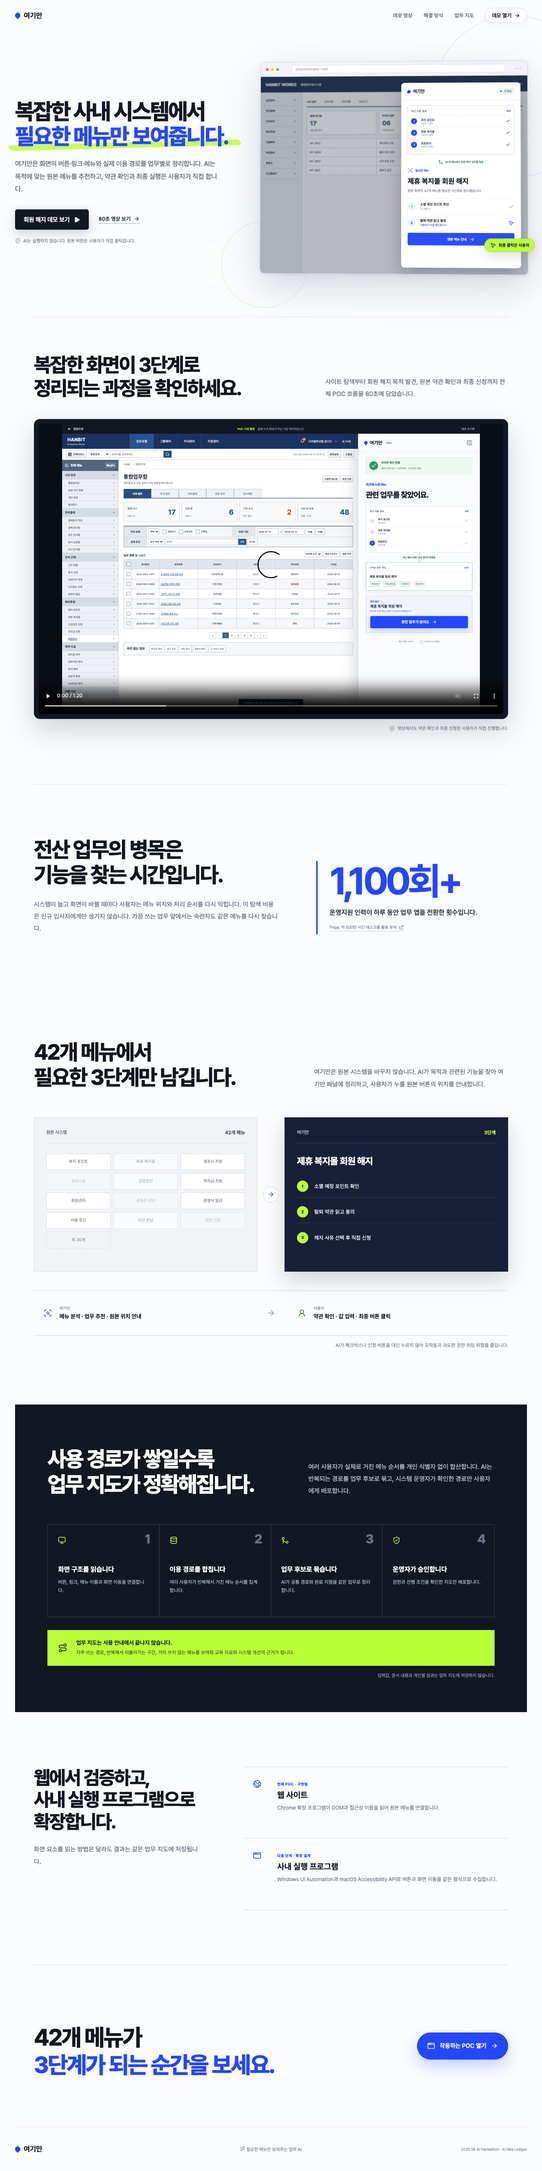
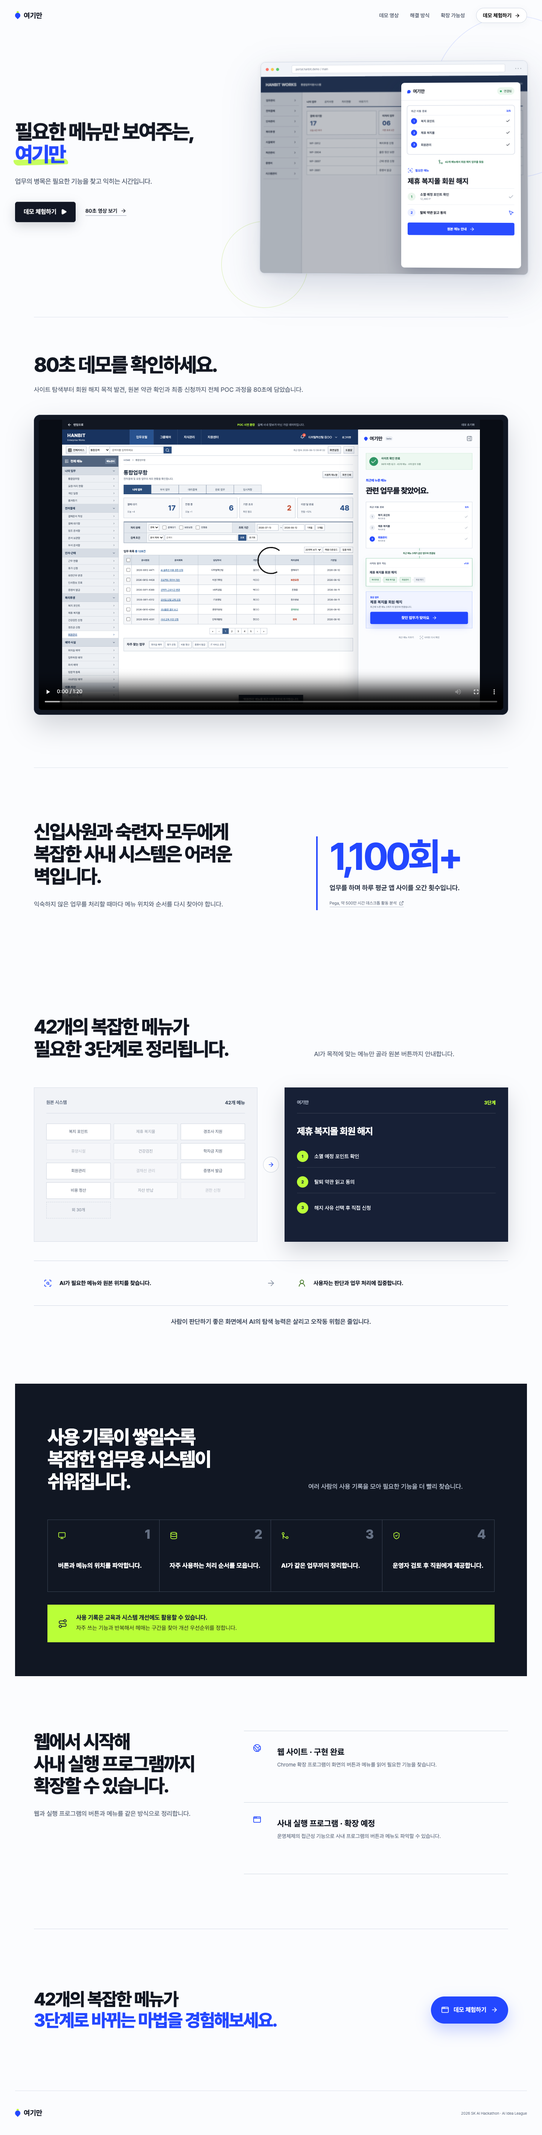
Refine landing copy and line breaks

diff --git a/src/Landing.tsx b/src/Landing.tsx
@@ -61,9 +61,9 @@ export function Landing({ onDemo }: LandingProps) {
         <div className="nav-links">
           <a href="#demo-video">데모 영상</a>
           <a href="#solution">해결 방식</a>
-          <a href="#learning">업무 지도</a>
+          <a href="#learning">확장 가능성</a>
           <button className="nav-demo" onClick={onDemo}>
-            데모 열기 <ArrowRight size={15} />
+            데모 체험하기 <ArrowRight size={15} />
           </button>
         </div>
       </nav>
@@ -71,24 +71,20 @@ export function Landing({ onDemo }: LandingProps) {
       <section className="hero-section">
         <div className="hero-copy hero-reveal">
           <h1>
-            복잡한 사내 시스템에서
-            <br /><span>필요한 메뉴만<br className="mobile-break" /> 보여줍니다.</span>
+            필요한 메뉴만 보여주는,
+            <br /><span>여기만</span>
           </h1>
           <p className="hero-description">
-            여기만은 화면의 버튼·링크·메뉴와 실제 이용 경로를 업무별로 정리합니다. AI는 목적에 맞는
-            원본 메뉴를 추천하고, 약관 확인과 최종 실행은 사용자가 직접 합니다.
+            업무의 병목은 필요한 기능을 찾고 익히는 시간입니다.
           </p>
           <div className="hero-actions">
             <button className="primary-cta" onClick={onDemo}>
-              회원 해지 데모 보기 <Play size={17} fill="currentColor" />
+              데모 체험하기 <Play size={17} fill="currentColor" />
             </button>
             <a className="text-cta" href="#demo-video">
               80초 영상 보기 <ArrowRight size={16} />
             </a>
           </div>
-          <p className="security-caption">
-            <ShieldCheck size={15} /> AI는 실행하지 않습니다. 원본 버튼은 사용자가 직접 클릭합니다.
-          </p>
         </div>
 
         <div className="hero-product hero-reveal hero-reveal-late" aria-label="여기만 제품 미리보기">
@@ -138,31 +134,27 @@ export function Landing({ onDemo }: LandingProps) {
                 <div className="preview-trace">
                   <div className="preview-trace-head"><small>최근 이동 경로</small><b>3/5</b></div>
                   {['복지 포인트', '제휴 복지몰', '회원관리'].map((item, index) => (
-                    <p key={item}><i>{index + 1}</i><span>{item}<small>사용자가 클릭</small></span><Check size={12} /></p>
+                    <p key={item}><i>{index + 1}</i><span>{item}</span><Check size={12} /></p>
                   ))}
                 </div>
                 <div className="preview-intersection"><GitMerge size={13} /> 42개 메뉴에서 회원 해지 업무를 찾음</div>
                 <div className="preview-result">
                   <div className="result-label"><ScanSearch size={14} /> 필요한 메뉴</div>
                   <h3>제휴 복지몰 회원 해지</h3>
-                  <p>원본 화면의 42개 메뉴를 필요한 3단계로 정리했습니다.</p>
                   <div className="mini-step"><span>1</span><p><b>소멸 예정 포인트 확인</b><small>12,480 P</small></p><Check size={15} /></div>
-                  <div className="mini-step active"><span>2</span><p><b>탈퇴 약관 읽고 동의</b><small>사용자가 직접 확인합니다</small></p><MousePointer2 size={15} /></div>
+                  <div className="mini-step active"><span>2</span><p><b>탈퇴 약관 읽고 동의</b></p><MousePointer2 size={15} /></div>
                   <button className="preview-action">원본 메뉴 안내 <ArrowRight size={14} /></button>
                 </div>
               </div>
             </div>
           </div>
-          <div className="human-badge"><MousePointer2 size={16} /> 최종 클릭은 사용자</div>
         </div>
       </section>
 
       <section className="demo-video-section" id="demo-video">
         <div className="demo-video-heading">
-          <h2>복잡한 화면이 3단계로<br />정리되는 과정을 확인하세요.</h2>
-          <p>
-            사이트 탐색부터 회원 해지 목적 발견, 원본 약관 확인과 최종 신청까지 전체 POC 흐름을 80초에 담았습니다.
-          </p>
+          <h2>80초 데모를 확인하세요.</h2>
+          <p>사이트 탐색부터 회원 해지 목적 발견, 원본 약관 확인과 최종 신청까지 전체 POC 과정을 80초에 담았습니다.</p>
         </div>
         <div className="demo-video-frame">
           <video controls playsInline preload="metadata" poster={demoPoster} width="1440" height="900" aria-label="여기만 회원 해지 POC 데모 영상">
@@ -170,20 +162,16 @@ export function Landing({ onDemo }: LandingProps) {
             브라우저가 MP4 영상 재생을 지원하지 않습니다.
           </video>
         </div>
-        <p className="demo-video-note"><ShieldCheck size={15} /> 영상에서도 약관 확인과 최종 신청은 사용자가 직접 진행합니다.</p>
       </section>
 
       <section className="friction-section" id="problem">
         <div className="friction-copy">
-          <h2>전산 업무의 병목은<br />기능을 찾는 시간입니다.</h2>
-          <p>
-            시스템이 늘고 화면이 바뀔 때마다 사용자는 메뉴 위치와 처리 순서를 다시 익힙니다.
-            이 탐색 비용은 신규 입사자에게만 생기지 않습니다. 가끔 쓰는 업무 앞에서는 숙련자도 같은 메뉴를 다시 찾습니다.
-          </p>
+          <h2>신입사원과 숙련자 모두에게<br />복잡한 사내 시스템은 어려운 벽입니다.</h2>
+          <p>익숙하지 않은 업무를 처리할 때마다 메뉴 위치와 순서를 다시 찾아야 합니다.</p>
         </div>
         <div className="friction-proof">
           <strong>1,100회+</strong>
-          <p>운영지원 인력이 하루 동안 업무 앱을 전환한 횟수입니다.</p>
+          <p>업무를 하며 하루 평균 앱 사이를 오간 횟수입니다.</p>
           <a href="https://www.pega.com/about/news/press-releases/research-reveals-employees-switch-apps-over-1100-times-day" target="_blank" rel="noreferrer">
             Pega, 약 500만 시간 데스크톱 활동 분석 <ExternalLink size={13} />
           </a>
@@ -192,11 +180,8 @@ export function Landing({ onDemo }: LandingProps) {
 
       <section className="focus-section" id="solution">
         <div className="focus-heading">
-          <h2>42개 메뉴에서<br />필요한 3단계만 남깁니다.</h2>
-          <p>
-            여기만은 원본 시스템을 바꾸지 않습니다. AI가 목적과 관련된 기능을 찾아 여기만 패널에 정리하고,
-            사용자가 누를 원본 버튼의 위치를 안내합니다.
-          </p>
+          <h2>42개의 복잡한 메뉴가<br />필요한 3단계로 정리됩니다.</h2>
+          <p>AI가 목적에 맞는 메뉴만 골라 원본 버튼까지 안내합니다.</p>
         </div>
 
         <div className="focus-compare" aria-label="원본 시스템과 여기만 화면 비교">
@@ -220,65 +205,60 @@ export function Landing({ onDemo }: LandingProps) {
         </div>
 
         <div className="control-policy">
-          <div><ScanSearch size={22} /><p><small>여기만</small><b>메뉴 분석 · 업무 추천 · 원본 위치 안내</b></p></div>
+          <div><ScanSearch size={22} /><p><b>AI가 필요한 메뉴와 원본 위치를 찾습니다.</b></p></div>
           <ArrowRight className="policy-arrow" size={24} />
-          <div><UserRound size={22} /><p><small>사용자</small><b>약관 확인 · 값 입력 · 최종 버튼 클릭</b></p></div>
+          <div><UserRound size={22} /><p><b>사용자는 판단과 업무 처리에 집중합니다.</b></p></div>
         </div>
-        <p className="control-note">AI가 체크박스나 신청 버튼을 대신 누르지 않아 오작동과 과도한 권한 위임 위험을 줄입니다.</p>
+        <p className="control-note">사람이 판단하기 좋은 화면에서 AI의 탐색 능력은 살리고 오작동 위험은 줄입니다.</p>
       </section>
 
       <section className="learning-section" id="learning">
         <div className="learning-heading">
-          <h2>사용 경로가 쌓일수록<br />업무 지도가 정확해집니다.</h2>
-          <p>
-            여러 사용자가 실제로 거친 메뉴 순서를 개인 식별자 없이 합산합니다. AI는 반복되는 경로를 업무 후보로 묶고,
-            시스템 운영자가 확인한 경로만 사용자에게 배포합니다.
-          </p>
+          <h2>사용 기록이 쌓일수록<br />복잡한 업무용 시스템이 쉬워집니다.</h2>
+          <p>여러 사람의 사용 기록을 모아 필요한 기능을 더 빨리 찾습니다.</p>
         </div>
 
-        <div className="learning-flow" aria-label="업무 지도가 만들어지는 과정">
-          <article><span>1</span><Monitor size={21} /><h3>화면 구조를 읽습니다</h3><p>버튼, 링크, 메뉴 이름과 화면 이동을 연결합니다.</p></article>
-          <article><span>2</span><Database size={21} /><h3>이용 경로를 합칩니다</h3><p>여러 사용자가 반복해서 거친 메뉴 순서를 집계합니다.</p></article>
-          <article><span>3</span><GitMerge size={21} /><h3>업무 후보로 묶습니다</h3><p>AI가 공통 경로와 완료 지점을 같은 업무로 정리합니다.</p></article>
-          <article><span>4</span><ShieldCheck size={21} /><h3>운영자가 승인합니다</h3><p>권한과 선행 조건을 확인한 지도만 배포합니다.</p></article>
+        <div className="learning-flow" aria-label="복잡한 업무용 시스템을 쉽게 만드는 과정">
+          <article><span>1</span><Monitor size={21} /><h3>버튼과 메뉴의 위치를 파악합니다.</h3></article>
+          <article><span>2</span><Database size={21} /><h3>자주 사용하는 처리 순서를 모읍니다.</h3></article>
+          <article><span>3</span><GitMerge size={21} /><h3>AI가 같은 업무끼리 정리합니다.</h3></article>
+          <article><span>4</span><ShieldCheck size={21} /><h3>운영자 검토 후 직원에게 제공합니다.</h3></article>
         </div>
 
         <div className="learning-insight">
           <Route size={25} />
-          <p><b>업무 지도는 사용 안내에서 끝나지 않습니다.</b><span>자주 쓰는 경로, 반복해서 되돌아가는 구간, 거의 쓰지 않는 메뉴를 보여줘 교육 자료와 시스템 개선의 근거가 됩니다.</span></p>
+          <p><b>사용 기록은 교육과 시스템 개선에도 활용할 수 있습니다.</b><span>자주 쓰는 기능과 반복해서 헤매는 구간을 찾아 개선 우선순위를 정합니다.</span></p>
         </div>
-        <p className="privacy-note">입력값, 문서 내용과 개인별 성과는 업무 지도에 저장하지 않습니다.</p>
       </section>
 
       <section className="platform-section">
         <div className="platform-heading">
-          <h2>웹에서 검증하고,<br />사내 실행 프로그램으로 확장합니다.</h2>
-          <p>화면 요소를 읽는 방법은 달라도 결과는 같은 업무 지도에 저장됩니다.</p>
+          <h2>웹에서 시작해<br />사내 실행 프로그램까지 확장할 수 있습니다.</h2>
+          <p>웹과 실행 프로그램의 버튼과 메뉴를 같은 방식으로 정리합니다.</p>
         </div>
         <div className="platform-list">
           <article>
             <Globe2 size={22} />
-            <div><span>현재 POC · 구현됨</span><h3>웹 사이트</h3><p>Chrome 확장 프로그램이 DOM과 접근성 이름을 읽어 원본 메뉴를 연결합니다.</p></div>
+            <div><h3>웹 사이트 · 구현 완료</h3><p>Chrome 확장 프로그램이 화면의 버튼과 메뉴를 읽어 필요한 기능을 찾습니다.</p></div>
           </article>
           <article>
             <AppWindow size={22} />
-            <div><span>다음 단계 · 확장 설계</span><h3>사내 실행 프로그램</h3><p>Windows UI Automation과 macOS Accessibility API로 버튼과 화면 이동을 같은 형식으로 수집합니다.</p></div>
+            <div><h3>사내 실행 프로그램 · 확장 예정</h3><p>운영체제의 접근성 기능으로 사내 프로그램의 버튼과 메뉴도 파악할 수 있습니다.</p></div>
           </article>
         </div>
       </section>
 
       <section className="final-cta-section">
         <div>
-          <h2>42개 메뉴가<br /><span>3단계가 되는 순간을 보세요.</span></h2>
+          <h2>42개의 복잡한 메뉴가<br /><span>3단계로 바뀌는 마법을 경험해보세요.</span></h2>
         </div>
         <button className="final-cta" onClick={onDemo}>
-          <AppWindow size={21} /> 작동하는 POC 열기 <ArrowRight size={19} />
+          <AppWindow size={21} /> 데모 체험하기 <ArrowRight size={19} />
         </button>
       </section>
 
       <footer>
         <span className="wordmark"><i className="wordmark-dot" /> 여기만</span>
-        <p><Route size={13} /> 필요한 메뉴만 보여주는 업무 AI</p>
         <small>2026 SK AI Hackathon · AI Idea League</small>
       </footer>
     </main>

diff --git a/src/styles.css b/src/styles.css
@@ -23,6 +23,7 @@ button { cursor: pointer; }
 a { color: inherit; text-decoration: none; }
 
 .landing { overflow: hidden; background: #fbfcfe; }
+.landing h1,.landing h2,.landing h3,.landing p { word-break: keep-all; }
 .landing-nav {
   width: min(1360px, calc(100% - 64px)); height: 82px; margin: 0 auto;
   display: flex; align-items: center; justify-content: space-between; position: relative; z-index: 20;
@@ -119,29 +120,31 @@ a { color: inherit; text-decoration: none; }
 .access-mark { position: absolute; right: 8%; top: 12%; display: flex; gap: 10px; color: var(--lime); opacity: .85; }.access-mark svg { width: 11px; fill: currentColor; }
 
 .final-cta-section { min-height: 430px; padding: 90px 0; border-top: 1px solid #d5dce6; display: flex; align-items: center; justify-content: space-between; gap: 60px; }
-.final-cta-section h2 { font-size: clamp(43px, 4.3vw, 68px); margin-top: 28px; }.final-cta-section h2 span { color: var(--blue); }
+.final-cta-section h2 { font-size: clamp(40px, 3.3vw, 50px); margin-top: 0; }.final-cta-section h2 span { color: var(--blue); white-space: nowrap; }
 .final-cta { flex: 0 0 auto; height: 72px; background: var(--blue); color: #fff; border: 0; border-radius: 99px; padding: 0 27px; display: flex; gap: 12px; align-items: center; font-weight: 600; font-size: 16px; box-shadow: 0 18px 40px rgba(35, 71, 255, .25); transition: transform .2s, box-shadow .2s; }
 .final-cta:hover { transform: translateY(-4px); box-shadow: 0 25px 55px rgba(35, 71, 255, .32); }
-footer { min-height: 118px; border-top: 1px solid #dce2eb; width: min(1360px, calc(100% - 64px)); margin: 0 auto; display: grid; grid-template-columns: 1fr auto 1fr; align-items: center; color: #737d8f; font-size: 12px; }
+footer { min-height: 118px; border-top: 1px solid #dce2eb; width: min(1360px, calc(100% - 64px)); margin: 0 auto; display: grid; grid-template-columns: 1fr auto; align-items: center; color: #737d8f; font-size: 12px; }
 footer p { margin: 0; }footer small { justify-self: end; }
 
 /* Landing: problem → solution → work map */
-.hero-copy h1 { font-size: clamp(47px, 4.15vw, 64px); white-space: normal; }
+.hero-copy h1 { font-size: clamp(46px, 3.8vw, 58px); white-space: nowrap; }
 .mobile-break { display: none; }
 .hero-copy h1 span::after { height: 15px; }
+.hero-description { max-width: none; white-space: nowrap; }
 .demo-video-section,.friction-section,.focus-section,.learning-section,.platform-section { width: min(1260px, calc(100% - 64px)); margin: 0 auto; }
 
 .demo-video-section { padding: 95px 0 140px; border-top: 1px solid #dce2eb; }
-.demo-video-heading { display: grid; grid-template-columns: 1fr .72fr; gap: 100px; align-items: end; margin-bottom: 50px; }
+.demo-video-heading { margin-bottom: 50px; }
 .demo-video-heading h2 { margin: 0; font-size: clamp(40px, 3.7vw, 58px); line-height: 1.17; letter-spacing: -.052em; font-weight: 780; }
-.demo-video-heading p { margin: 0; color: #596476; font-size: 17px; line-height: 1.9; }
+.demo-video-heading p { margin: 19px 0 0; color: #596476; font-size: 17px; line-height: 1.9; white-space: nowrap; }
 .demo-video-frame { padding: 12px; border: 1px solid #2b3548; border-radius: 16px; background: #111723; box-shadow: 0 30px 70px rgba(20, 30, 51, .18); }
 .demo-video-frame video { display: block; width: 100%; height: auto; aspect-ratio: 16 / 10; border-radius: 8px; background: #090d15; }
 .demo-video-note { margin: 18px 0 0; display: flex; justify-content: flex-end; align-items: center; gap: 7px; color: #717b8c; font-size: 12px; }
 
 .friction-section { padding: 140px 0; border-top: 1px solid #dce2eb; display: grid; grid-template-columns: 1.12fr .88fr; gap: 100px; align-items: end; }
-.friction-copy h2,.focus-heading h2,.learning-heading h2,.platform-heading h2 { margin: 0; font-size: clamp(42px, 4vw, 62px); line-height: 1.16; letter-spacing: -.052em; font-weight: 780; }
+.friction-copy h2,.focus-heading h2,.learning-heading h2,.platform-heading h2 { margin: 0; font-size: clamp(40px, 3.55vw, 55px); line-height: 1.16; letter-spacing: -.052em; font-weight: 780; }
 .friction-copy p,.focus-heading p,.learning-heading p,.platform-heading p { margin: 28px 0 0; color: #596476; font-size: 17px; line-height: 1.9; }
+.friction-copy p,.focus-heading p,.learning-heading p,.platform-heading p { white-space: nowrap; }
 .friction-proof { border-left: 4px solid var(--blue); padding: 8px 0 8px 32px; }
 .friction-proof strong { display: block; color: var(--blue); font-size: clamp(68px, 7vw, 104px); line-height: .9; letter-spacing: -.07em; }
 .friction-proof p { max-width: 400px; margin: 24px 0 15px; color: #30394a; font-size: 18px; line-height: 1.55; font-weight: 650; }
@@ -172,22 +175,22 @@ footer p { margin: 0; }footer small { justify-self: end; }
 .control-policy { margin-top: 50px; display: grid; grid-template-columns: 1fr 90px 1fr; align-items: center; border-top: 1px solid #cfd6e2; border-bottom: 1px solid #cfd6e2; }
 .control-policy > div { min-height: 118px; display: grid; grid-template-columns: 42px 1fr; align-items: center; padding: 22px 26px; }
 .control-policy > div:first-child svg { color: var(--blue); }.control-policy > div:last-child svg { color: #39701a; }
-.control-policy p { margin: 0; display: grid; gap: 6px; }.control-policy small { color: #7d8798; font-size: 11px; }.control-policy b { font-size: 15px; }
+.control-policy p { margin: 0; }.control-policy b { font-size: 15px; }
 .policy-arrow { justify-self: center; color: #8d97a8; }
-.control-note { margin: 18px 0 0; color: #6f798a; font-size: 13px; text-align: right; }
+.control-note { margin: 28px 0 0; color: #3f4a5d; font-size: 17px; line-height: 1.7; text-align: center; font-weight: 600; }
 
 .learning-section { width: min(1360px, calc(100% - 64px)); padding: 112px max(50px, 6vw) 90px; color: #fff; background: #111723; }
 .learning-heading { display: grid; grid-template-columns: 1fr .82fr; gap: 90px; align-items: end; }
 .learning-heading p { color: #b7c0cf; }
 .learning-flow { margin-top: 72px; display: grid; grid-template-columns: repeat(4,1fr); border: 1px solid #3b4555; }
-.learning-flow article { min-height: 245px; position: relative; padding: 31px 27px; border-right: 1px solid #3b4555; }
+.learning-flow article { min-height: 190px; position: relative; padding: 31px 27px; border-right: 1px solid #3b4555; }
 .learning-flow article:last-child { border-right: 0; }
 .learning-flow article > span { position: absolute; right: 22px; top: 18px; color: #667184; font-size: 34px; font-weight: 800; }
 .learning-flow article > svg { color: var(--lime); }
-.learning-flow h3 { margin: 52px 0 13px; font-size: 18px; }
+.learning-flow h3 { margin: 52px 0 0; font-size: 17px; line-height: 1.6; }
 .learning-flow p { margin: 0; color: #aeb8c8; font-size: 13px; line-height: 1.75; }
 .learning-insight { margin-top: 34px; display: grid; grid-template-columns: 48px 1fr; align-items: center; padding: 25px 28px; color: #172036; background: var(--lime); }
-.learning-insight p { margin: 0; display: grid; gap: 6px; }.learning-insight b { font-size: 15px; }.learning-insight span { color: #38431f; font-size: 13px; line-height: 1.65; }
+.learning-insight p { margin: 0; display: grid; gap: 6px; }.learning-insight b { font-size: 16px; }.learning-insight span { color: #38431f; font-size: 15px; line-height: 1.65; }
 .privacy-note { margin: 19px 0 0; color: #8f99aa; font-size: 12px; text-align: right; }
 
 .platform-section { padding: 145px 0; display: grid; grid-template-columns: .78fr 1.22fr; gap: 110px; align-items: start; }
@@ -289,20 +292,22 @@ footer p { margin: 0; }footer small { justify-self: end; }
   .landing-nav,.hero-section,.statement-section,.how-section,.access-section,.final-cta-section,.demo-video-section,.friction-section,.focus-section,.learning-section,.platform-section,footer { width: min(92%, 850px); }
   .hero-section { grid-template-columns: 1fr; padding-top: 80px; }.hero-copy { text-align: center; }.hero-description { margin-left: auto; margin-right: auto; }.hero-actions,.security-caption { justify-content: center; }.hero-product { margin-top: 40px; }
   .statement-copy { grid-template-columns: 1fr; gap: 30px; }.how-section { grid-template-columns: 1fr; gap: 70px; }.handoff-line { grid-template-columns: 1fr 110px 1fr; }
-  .demo-video-heading,.friction-section,.focus-heading,.learning-heading,.platform-section { grid-template-columns: 1fr; gap: 54px; }
+  .friction-section,.focus-heading,.learning-heading,.platform-section { grid-template-columns: 1fr; gap: 54px; }
+  .demo-video-heading p,.friction-copy p,.focus-heading p,.learning-heading p,.platform-heading p { white-space: normal; }
   .learning-section { padding-left: 50px; padding-right: 50px; }
   .learning-flow { grid-template-columns: repeat(2,1fr); }.learning-flow article:nth-child(2) { border-right: 0; }.learning-flow article:nth-child(-n+2) { border-bottom: 1px solid #3b4555; }
 }
 @media (max-width: 700px) {
   .landing-nav { height: 70px; }.nav-links a { display: none; }.hero-section { width: calc(100% - 36px); padding: 55px 0 80px; min-height: 0; }.hero-copy h1 { font-size: 44px; }.hero-description { font-size: 15px; }.hero-actions { flex-direction: column; gap: 18px; }.browser-body { height: 420px; }.preview-panel { width: 75%; }.legacy-mini-body { grid-template-columns: 82px 1fr; }.human-badge { right: -4px; }
   .statement-section,.how-section,.access-section,.final-cta-section,.demo-video-section,.friction-section,.focus-section,.learning-section,.platform-section { width: calc(100% - 36px); }.statement-section,.how-section { padding: 95px 0; }.statement-copy h2,.how-heading h2,.access-section h2,.final-cta-section h2 { font-size: 38px; }.handoff-line { grid-template-columns: 1fr; }.baton { height: 64px; transform: none; }.baton > * { transform: none; }.role { padding: 28px 15px; }.access-section { padding: 70px 30px; }.final-cta-section { flex-direction: column; align-items: flex-start; min-height: 480px; justify-content: center; }.final-cta { height: 62px; }
-  .hero-copy h1 { font-size: 39px; line-height: 1.14; }.hero-copy h1 span::after { height: 10px; }.mobile-break { display: block; }.security-caption { align-items: flex-start; text-align: left; }
+  .final-cta-section h2 span { white-space: normal; }
+  .hero-copy h1 { font-size: 31px; line-height: 1.18; }.hero-copy h1 span { font-size: 1.35em; }.hero-copy h1 span::after { height: 10px; }.hero-description { white-space: normal; }.mobile-break { display: block; }
   .demo-video-section,.friction-section,.focus-section,.platform-section { padding: 95px 0; }.demo-video-heading h2,.friction-copy h2,.focus-heading h2,.learning-heading h2,.platform-heading h2 { font-size: 38px; }.demo-video-heading p,.friction-copy p,.focus-heading p,.learning-heading p,.platform-heading p { font-size: 15px; }
-  .demo-video-heading { gap: 24px; margin-bottom: 32px; }.demo-video-frame { padding: 5px; border-radius: 10px; }.demo-video-frame video { border-radius: 6px; }.demo-video-note { justify-content: flex-start; align-items: flex-start; line-height: 1.6; }
+  .demo-video-heading { margin-bottom: 32px; }.demo-video-frame { padding: 5px; border-radius: 10px; }.demo-video-frame video { border-radius: 6px; }
   .friction-proof { padding-left: 22px; }.friction-proof strong { font-size: 76px; }
   .focus-compare { grid-template-columns: 1fr; gap: 18px; margin-top: 50px; }.compare-arrow { transform: rotate(90deg); }.menu-noise,.menu-focus { min-height: 0; padding: 24px; }.noise-list { grid-template-columns: repeat(2,1fr); }
   .control-policy { grid-template-columns: 1fr; }.control-policy > div { min-height: 100px; padding: 18px; }.policy-arrow { transform: rotate(90deg); }.control-note { text-align: left; line-height: 1.7; }
-  .learning-section { padding: 82px 25px 60px; }.learning-flow { grid-template-columns: 1fr; margin-top: 50px; }.learning-flow article { min-height: 200px; border-right: 0; border-bottom: 1px solid #3b4555; }.learning-flow article:nth-child(2) { border-right: 0; }.learning-flow article:last-child { border-bottom: 0; }.learning-insight { grid-template-columns: 35px 1fr; padding: 21px; }.privacy-note { text-align: left; line-height: 1.6; }
+  .learning-section { padding: 82px 25px 60px; }.learning-flow { grid-template-columns: 1fr; margin-top: 50px; }.learning-flow article { min-height: 175px; border-right: 0; border-bottom: 1px solid #3b4555; }.learning-flow article:nth-child(2) { border-right: 0; }.learning-flow article:last-child { border-bottom: 0; }.learning-insight { grid-template-columns: 35px 1fr; padding: 21px; }
   .platform-section { gap: 40px; }.platform-list article { padding-left: 8px; padding-right: 8px; }
   footer { width: calc(100% - 36px); grid-template-columns: 1fr; gap: 9px; padding: 30px 0; }footer small { justify-self: start; }.browser-frame { transform: none; }
 }

diff --git a/index.html b/index.html
@@ -4,7 +4,7 @@
     <meta charset="UTF-8" />
     <meta name="viewport" content="width=device-width, initial-scale=1.0" />
     <meta name="theme-color" content="#f7f9fc" />
-    <meta name="description" content="여기만 — 복잡한 사내 시스템에서 필요한 메뉴만 보여주고, 최종 실행은 사용자에게 맡기는 업무 AI입니다." />
+    <meta name="description" content="여기만 — 복잡한 사내 시스템에서 필요한 메뉴만 보여주는 업무 AI입니다." />
     <meta property="og:title" content="여기만 — 필요한 메뉴만 보여주는 업무 AI" />
     <meta property="og:description" content="42개 메뉴를 필요한 3단계로 정리하고 원본 버튼의 위치를 안내합니다." />
     <meta property="og:image" content="https://raw.githubusercontent.com/stpcoder/yogiman-ai/main/qa/screenshots/landing-capture-1200x630.png" />

diff --git a/README.md b/README.md
@@ -2,10 +2,10 @@
 
 # 여기만
 
-### 복잡한 사내 시스템에서 필요한 메뉴만 보여줍니다.
+### 필요한 메뉴만 보여주는, 여기만
 
-AI가 화면의 버튼·링크·메뉴와 실제 이용 경로를 업무별로 정리합니다.<br />
-최종 선택과 실행은 사용자가 원본 화면에서 직접 진행합니다.
+업무의 병목은 필요한 기능을 찾고 익히는 시간입니다.<br />
+여기만은 42개의 복잡한 메뉴를 필요한 3단계로 정리합니다.
 
 [실행 데모](https://stpcoder.github.io/yogiman-ai/#/demo) · [전체 영상](https://github.com/stpcoder/yogiman-ai/releases/download/v0.2.1/yogiman-demo.mp4) · [확장 프로그램 다운로드](https://github.com/stpcoder/yogiman-ai/releases/latest)
 
